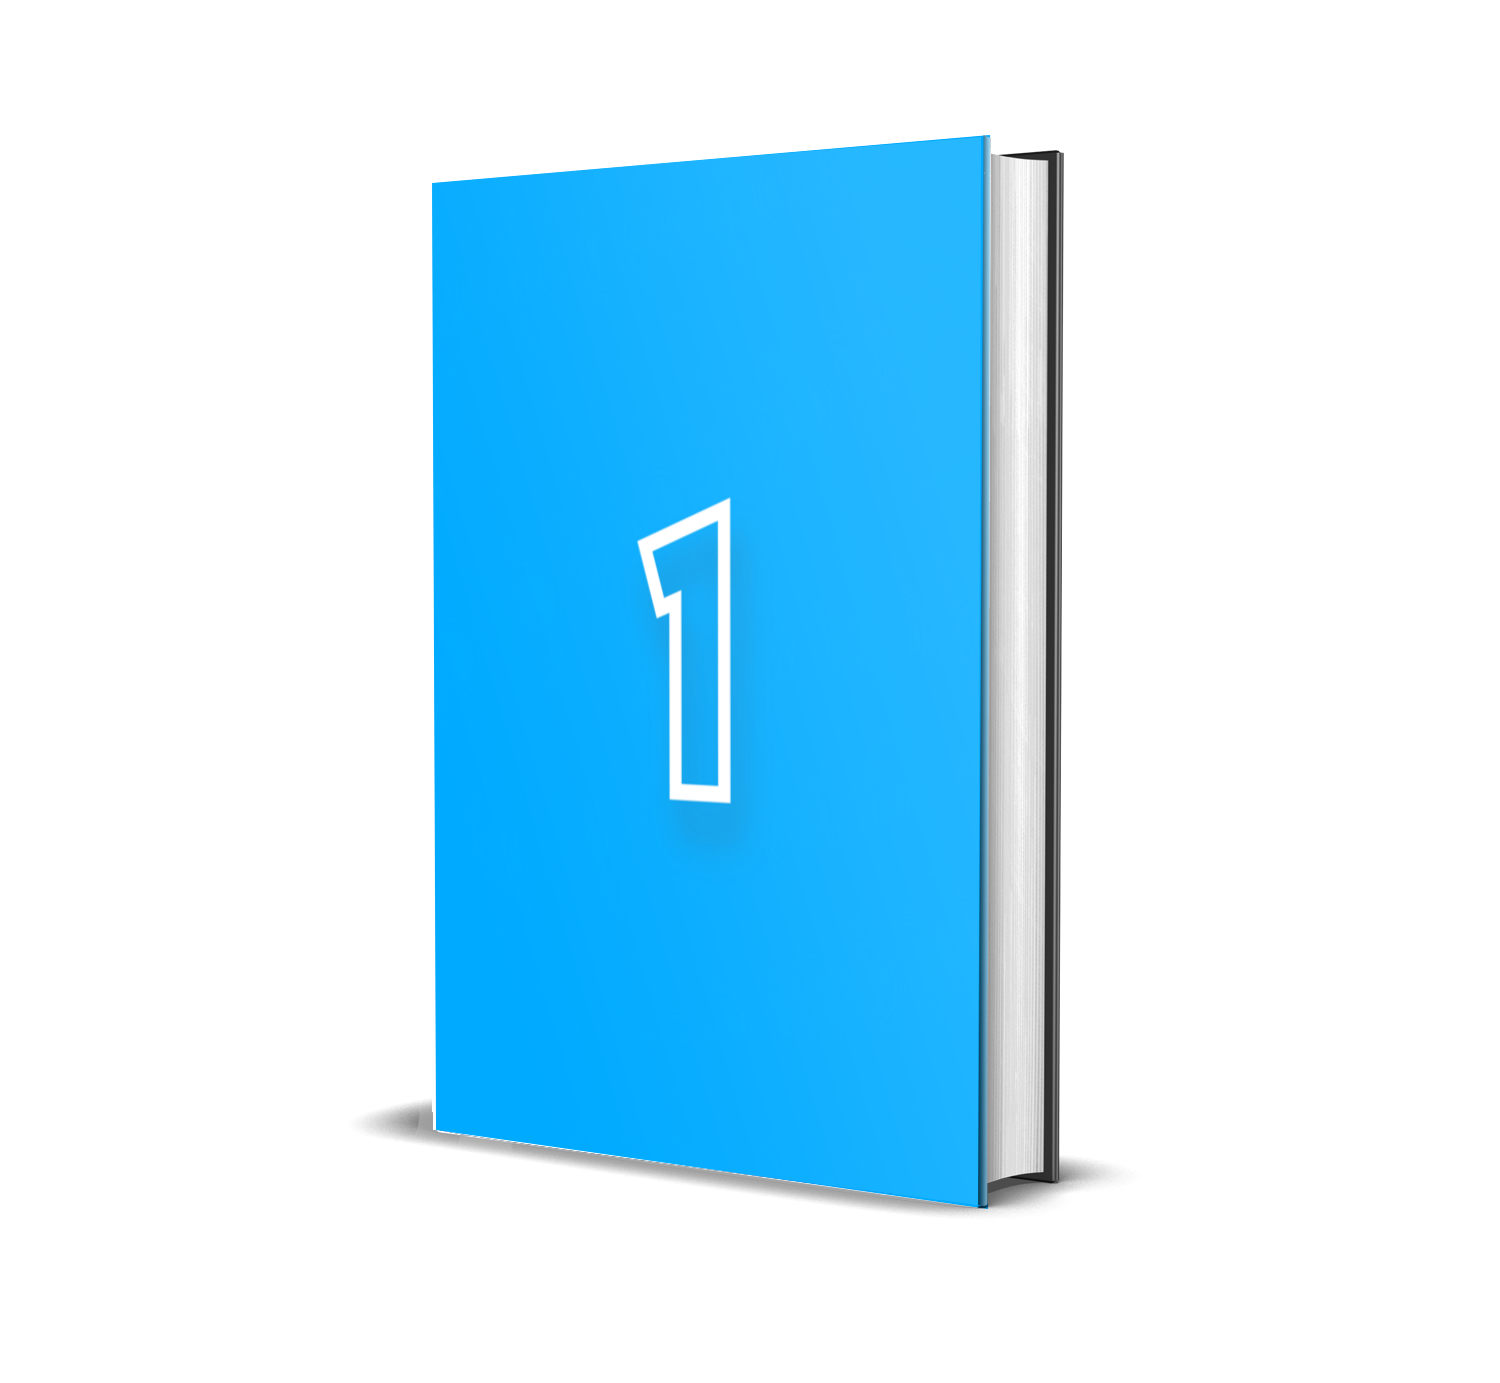
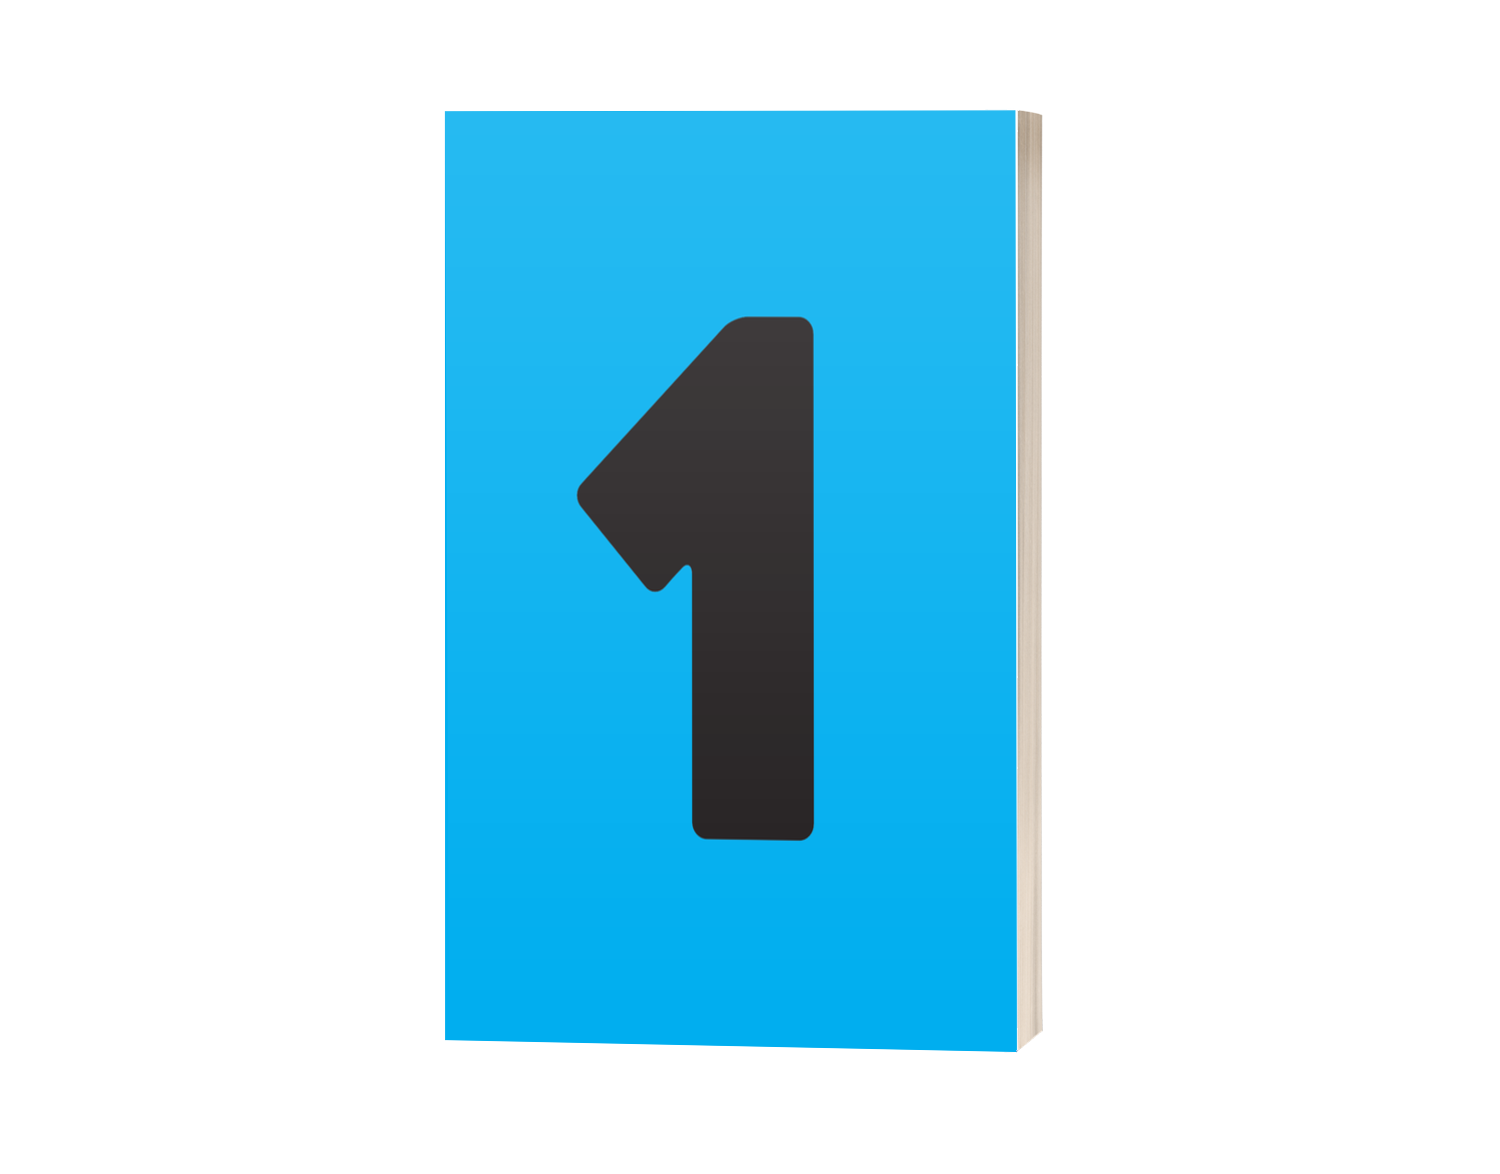
added test covers
and fixed spacing

Changed region(s): [[0.2453, 0.092, 0.736, 0.9199], [0.368, 0.2453, 0.552, 0.7359]]

diff --git a/index.html b/index.html
@@ -76,11 +76,13 @@
             <div class="book-option" data-book-url="/books/waroftheworlds.html"><img src="/Covers/CMwar.png" alt="War of the Worlds"></div>
             <div class="book-option" data-book-url="/books/whitefang.html"><img src="/Covers/CMwf.png" alt="White Fang"></div>
             <!-- Test Texts -->
+            <div class="break"></div>
+            <div class="book-option-2" data-book-url="/TestPassages/Passage1.html"><img src="/Covers/RP/PTC.png" alt="Tester"></div>
             <div class="book-option-2" data-book-url="/TestPassages/Passage1.html"><img src="/Covers/RP/P1C.png" alt="Passage One"></div>
-            <div class="book-option-2" data-book-url="/TestPassages/Passage2.html"><img src="/Covers/RP/P1C.png" alt="Passage Two"></div>
-            <div class="book-option-2" data-book-url="/TestPassages/Passage3.html"><img src="/Covers/RP/P1C.png" alt="Passage Three"></div>
-            <div class="book-option-2" data-book-url="/TestPassages/Passage4.html"><img src="/Covers/RP/P1C.png" alt="Passage Four"></div>
-            <div class="book-option-2" data-book-url="/TestPassages/Passage5.html"><img src="/Covers/RP/P1C.png" alt="Passage Five"></div>
+            <div class="book-option-2" data-book-url="/TestPassages/Passage2.html"><img src="/Covers/RP/P2C.png" alt="Passage Two"></div>
+            <div class="book-option-2" data-book-url="/TestPassages/Passage3.html"><img src="/Covers/RP/P3C.png" alt="Passage Three"></div>
+            <div class="book-option-2" data-book-url="/TestPassages/Passage4.html"><img src="/Covers/RP/P4C.png" alt="Passage Four"></div>
+            <div class="book-option-2" data-book-url="/TestPassages/Passage5.html"><img src="/Covers/RP/P5C.png" alt="Passage Five"></div>
         </div>
     </div>
 

diff --git a/books/crimeandpunishment.html b/books/crimeandpunishment.html
@@ -101,12 +101,6 @@
       </style>
       <title>The Project Gutenberg eBook of Crime and Punishment, by Fyodor Dostoevsky</title>
       <style>
-            body {
-                  margin-left: 20%;
-                  margin-right: 20%;
-                  text-align: justify;
-                  font-family: 'Bacasime Antique', serif;
-            }
 
             h1,
             h2,
@@ -162,12 +156,6 @@
                   width: 80%;
                   margin-top: 2em;
                   margin-bottom: 2em
-            }
-
-            p {
-                  text-indent: 1em;
-                  margin-top: 0.25em;
-                  margin-bottom: 0.25em
             }
 
             p.poem {

diff --git a/books/KinginYellow.html b/books/KinginYellow.html
@@ -103,8 +103,6 @@
         The Project Gutenberg eBook of The King in Yellow, by Robert W. Chambers.
     </title>
     <style>
-
-
         .c {
             text-align: center;
             text-indent: 0%
@@ -220,7 +218,7 @@
     <p class="cb">BY<br>
         ROBERT W. CHAMBERS<br><br>
         Original publication date: 1895</p>
-        
+
     <hr class="full">
     <p class="cb">THE KING IN YELLOW<br> IS DEDICATED<br> TO<br> MY BROTHER</p>
     <hr class="full">
@@ -302,7 +300,7 @@
             </tr>
         </tbody>
     </table>
-   
+
     <h2><a id="THE_REPAIRER_OF_REPUTATIONS"></a>THE REPAIRER OF REPUTATIONS</h2>
     <h3>I</h3>
     <div class="blockquot">

diff --git a/style.css b/style.css
@@ -108,7 +108,7 @@ body {
 }
 
 .book-option-2 {
-    margin: 1%;
+    margin: 0%;
     cursor: pointer;
     transition: transform 0.4s ease;
     height: 6%;
@@ -129,12 +129,7 @@ body {
         align-items: center;
         justify-content: center;
     }
-
-    .book-option-2 {
-        flex: 0 0 26%;
-        margin: 10px;
-
-    }
+    
 }
 
 /* Hover effect on book options with glow */
@@ -166,5 +161,5 @@ body {
 
 .break {
     flex-basis: 100%;
-    height: 0;
+    height: 2em;
 }
